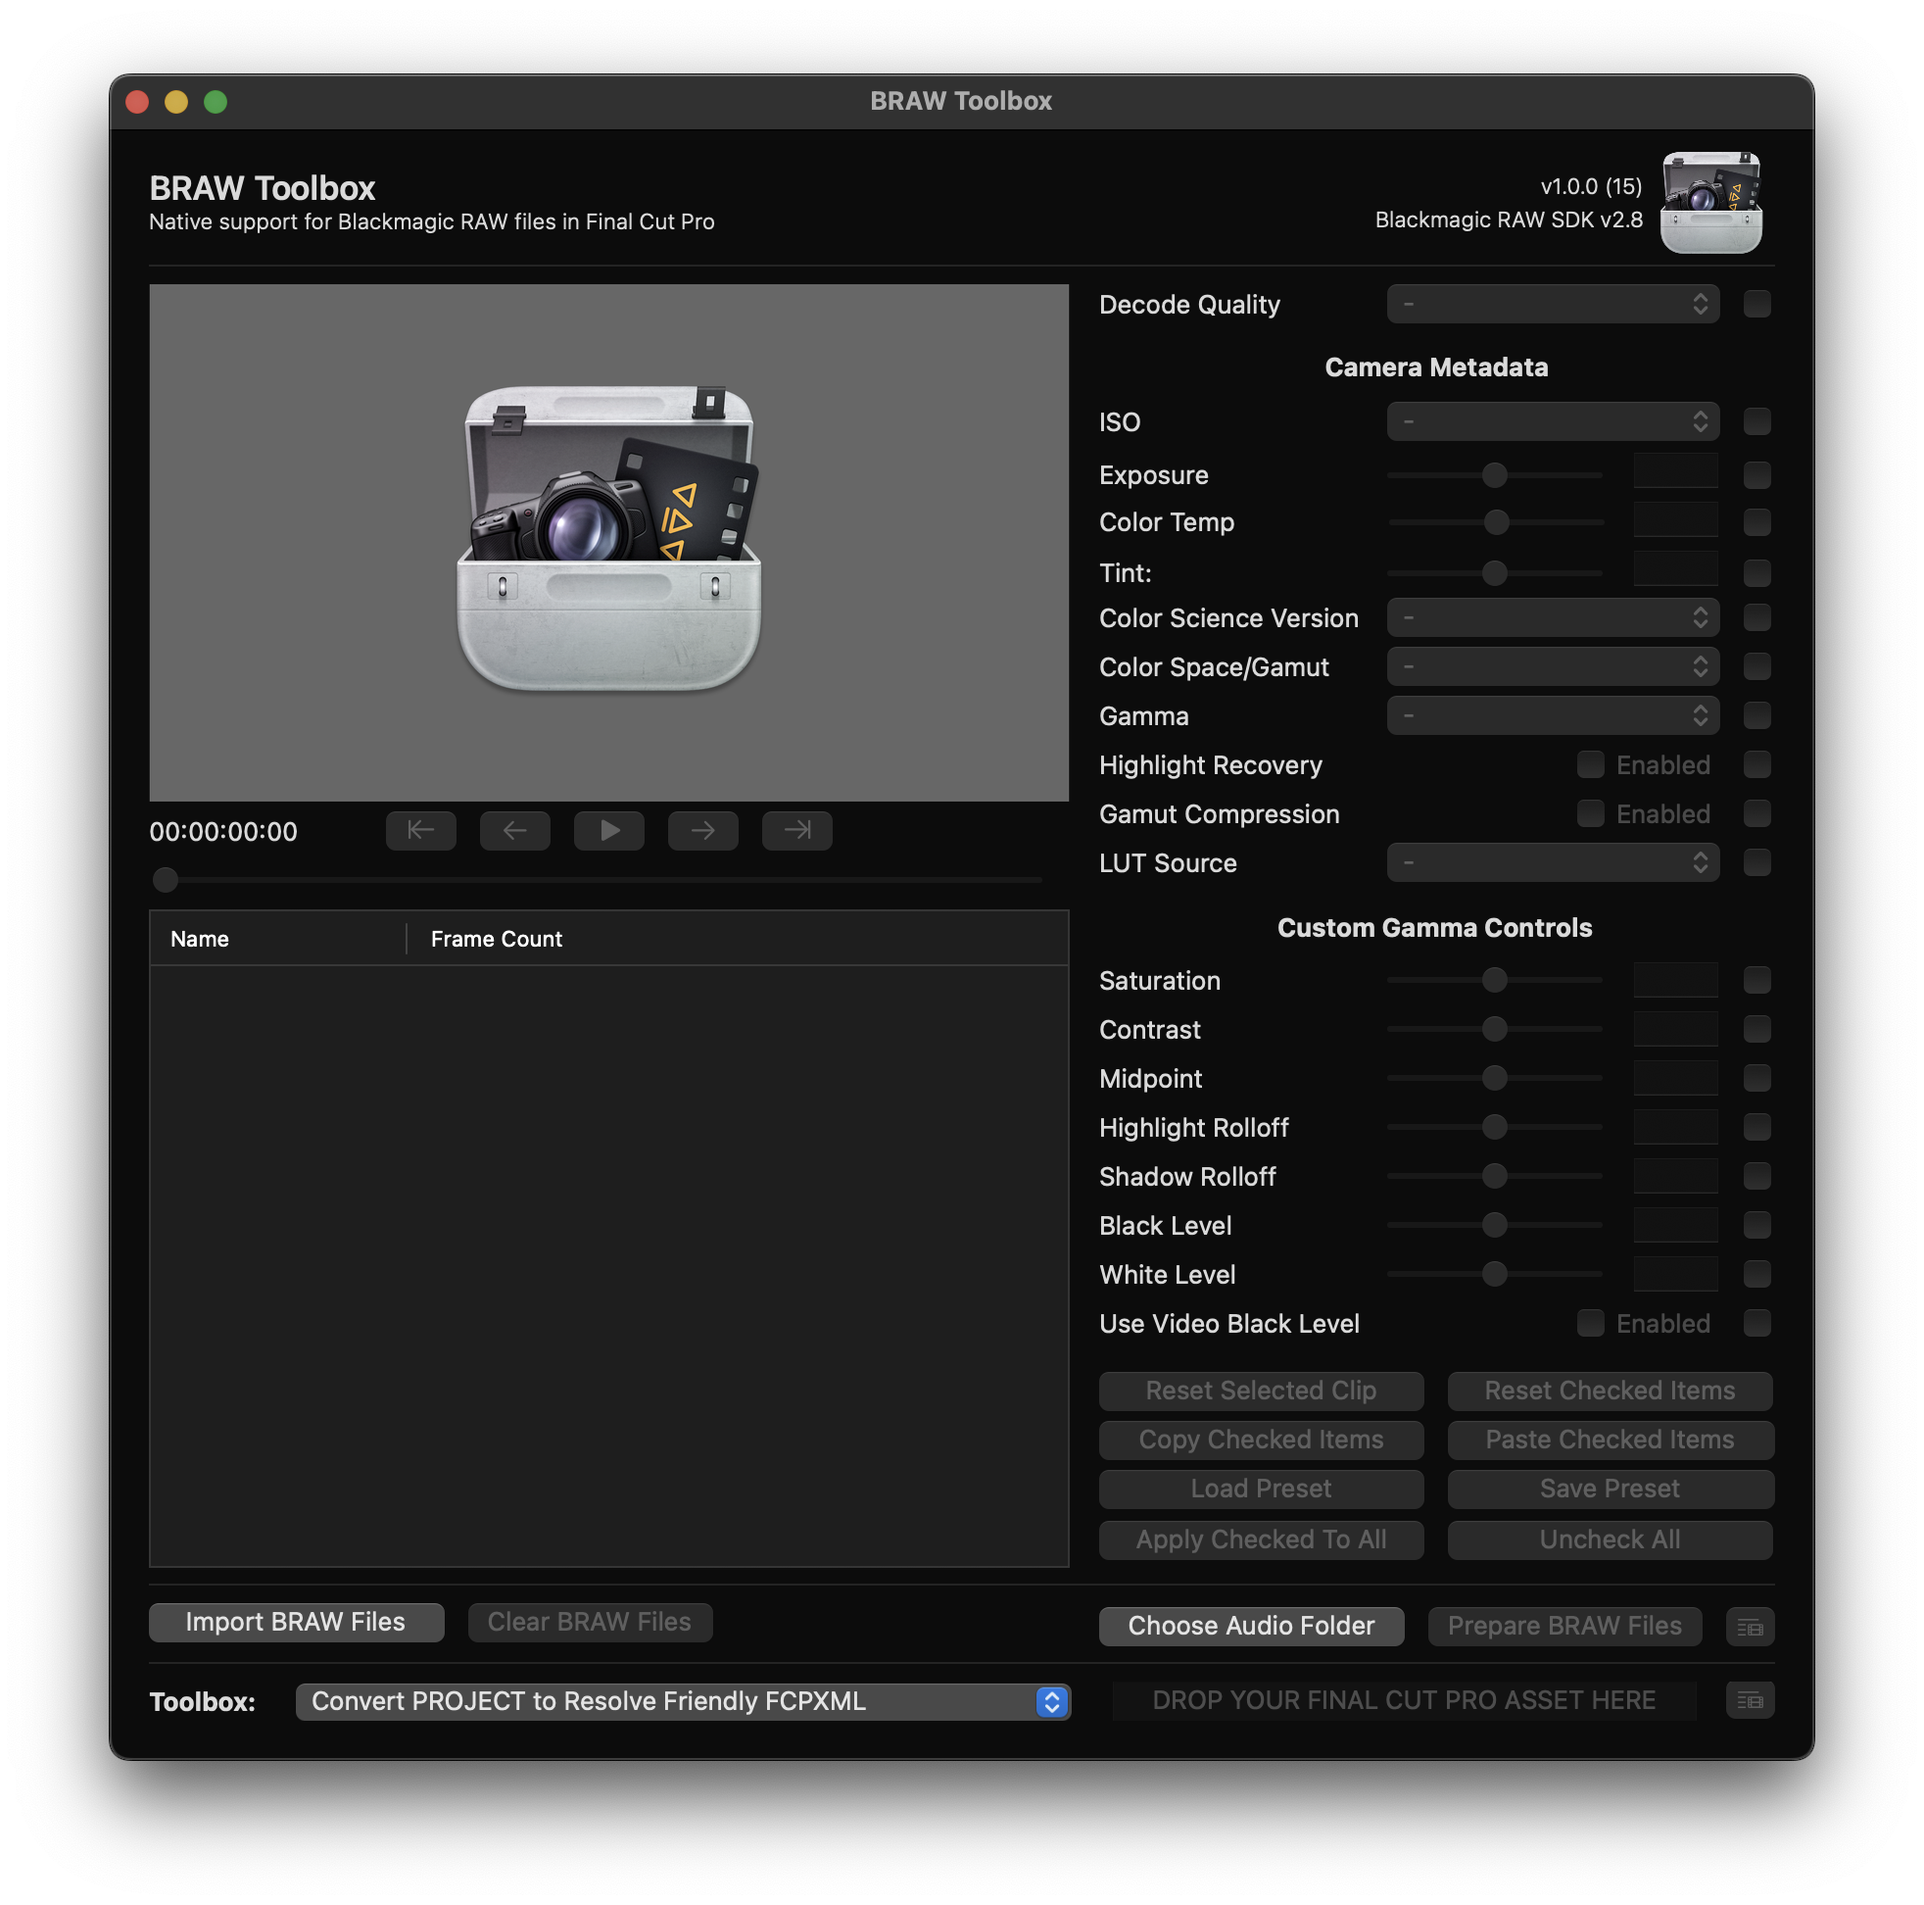
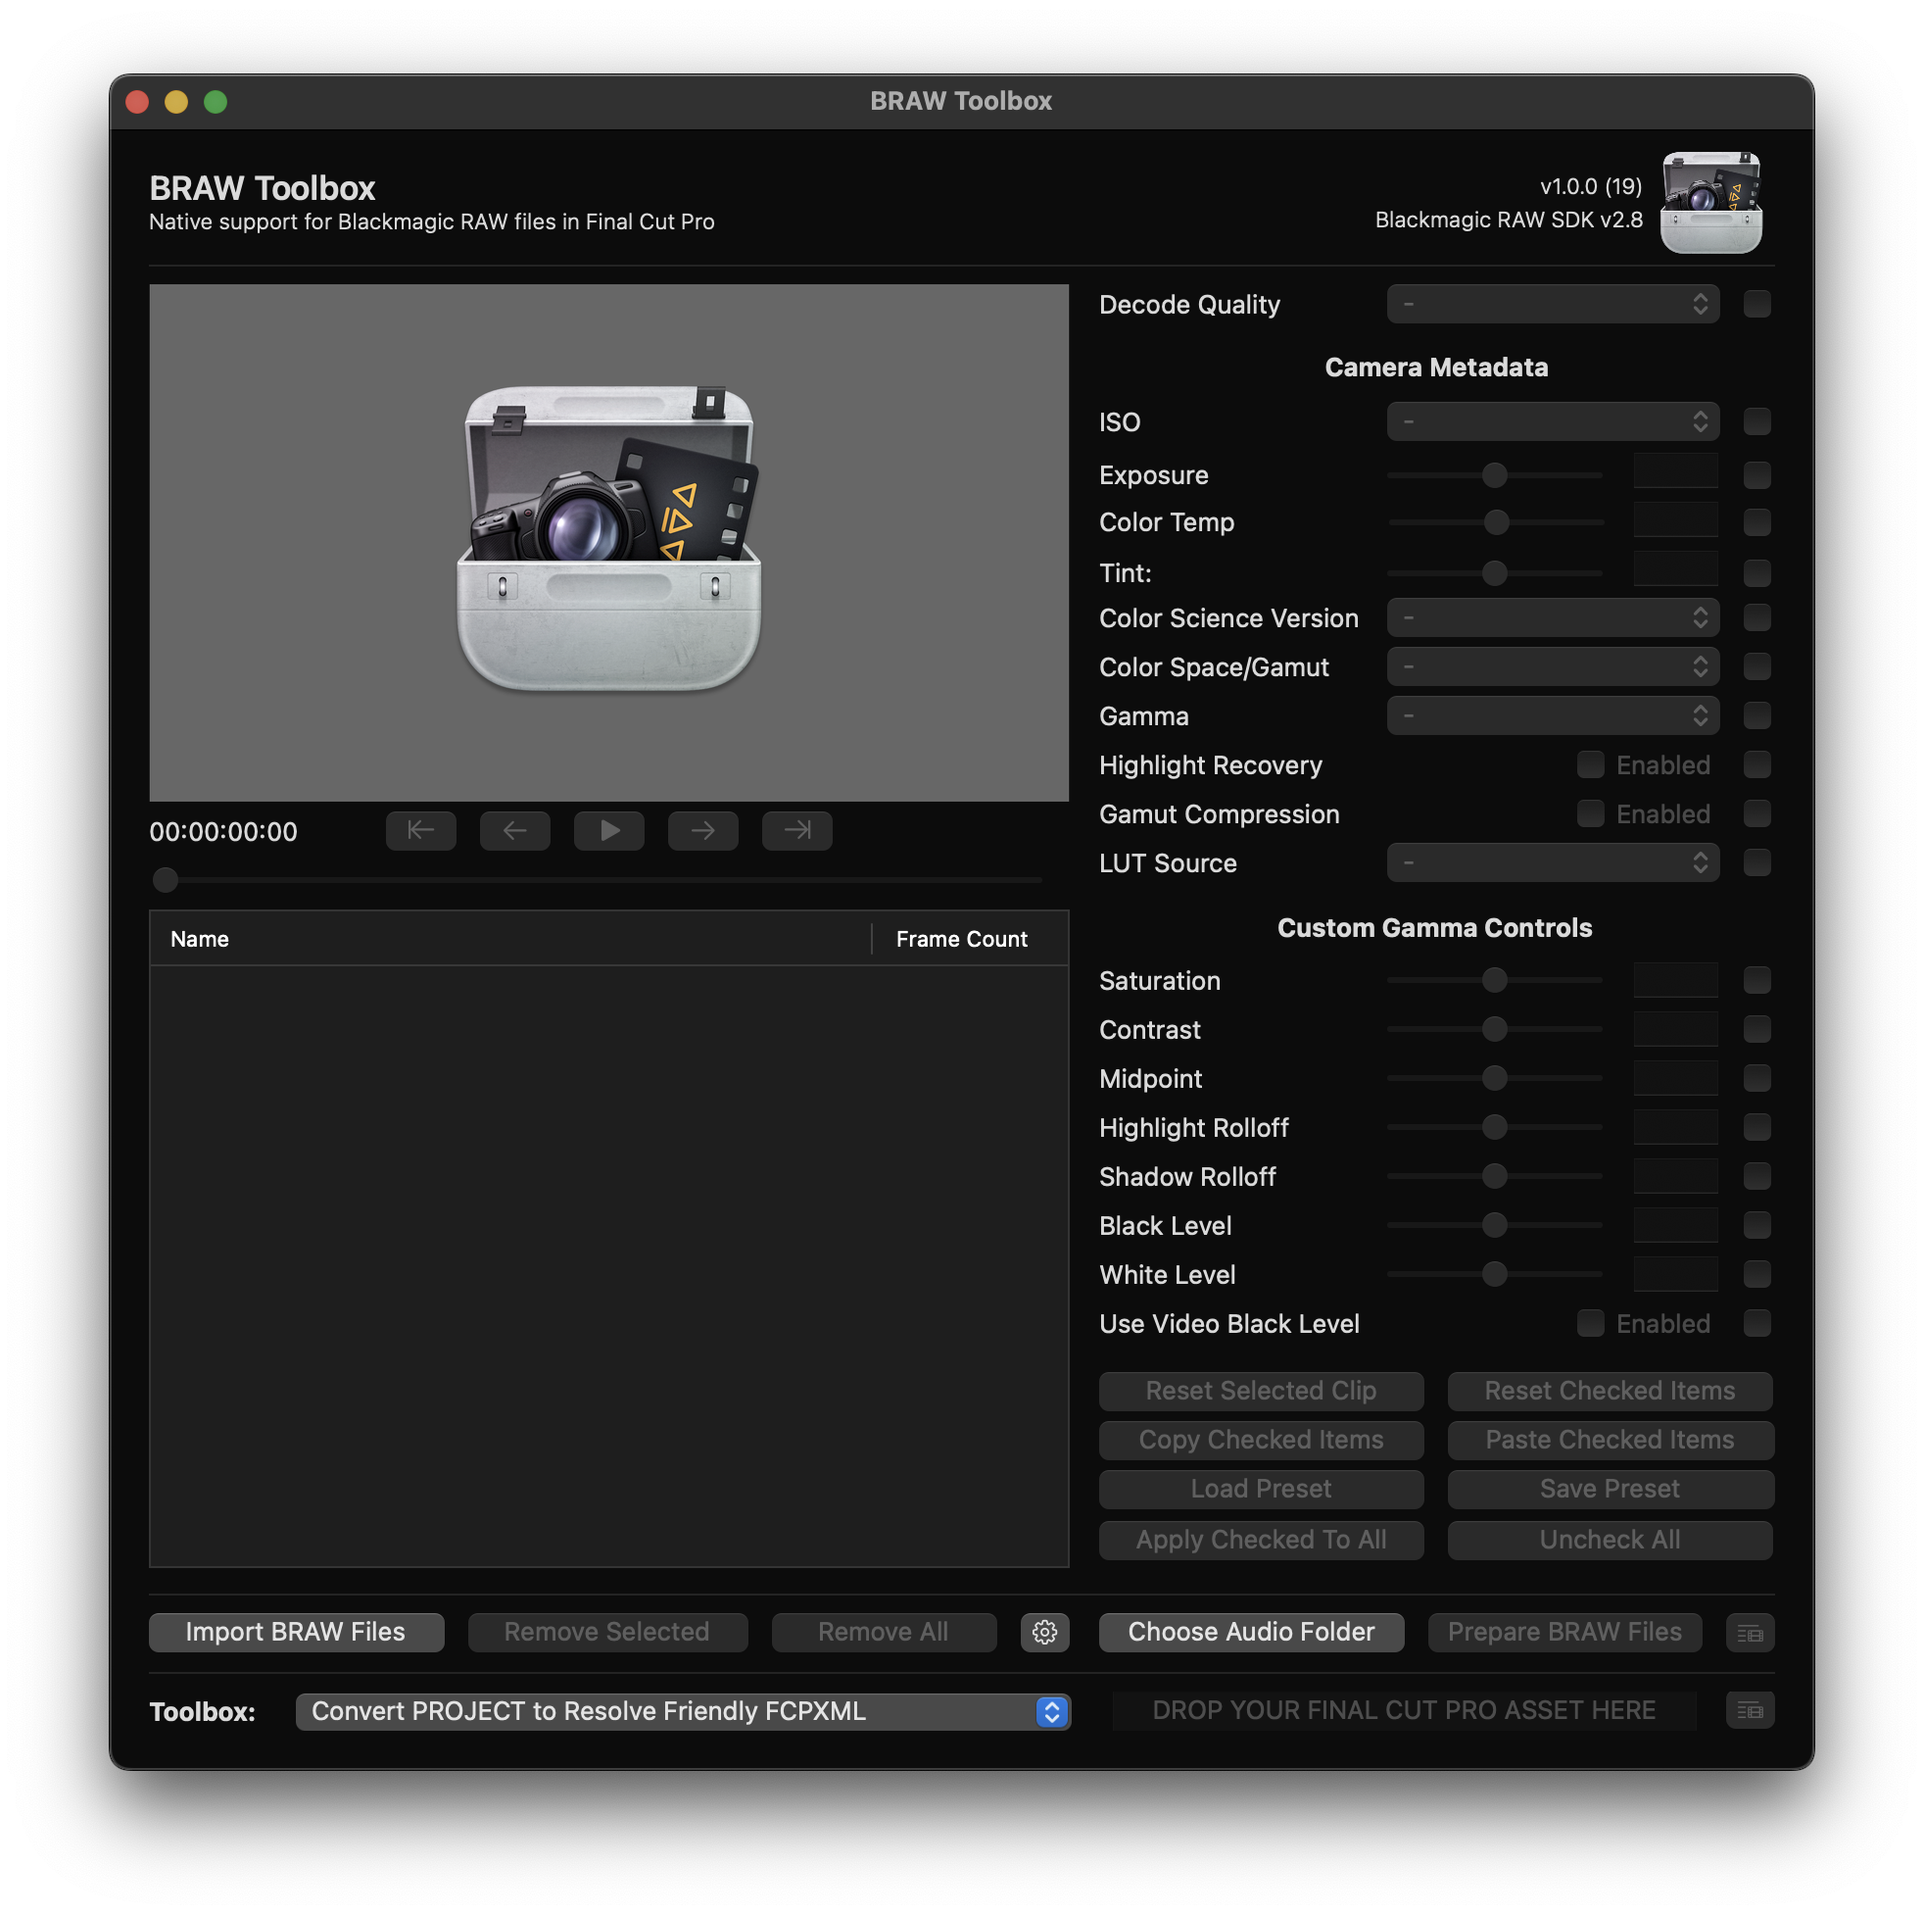
Updated images and wording in README

diff --git a/README.md b/README.md
@@ -10,15 +10,13 @@ This allows you to do your offline edit in Final Cut Pro, then send across to Da
 
 ## Download
 
-BRAW Toolbox is currently in **public beta**.
+BRAW Toolbox is currently in **public beta**. There are currently 120 testers from all over the world.
 
 You can download the latest beta via Apple's TestFlight [here](https://testflight.apple.com/join/dbWjWl8e).
 
 If all goes to plan, we intend to release on the Mac App Store in late January.
 
-TestFlight requires macOS Monterey or later.
-
-If you're running Big Sur, it MIGHT be possible to download on a Monterey machine, then copy across to your Big Sur machine, if they share the same Apple ID.
+TestFlight requires macOS Monterey or later. However, if you're running Big Sur, it MIGHT be possible to download on a Monterey machine, then copy across to your Big Sur machine, if they share the same Apple ID.
 
 ---
 
@@ -43,7 +41,7 @@ GitHub registration is free, and this GitHub repository is actively monitored by
 
 ## Incomplete Features
 
-The below features are not yet available in the latest beta, and will be added soon:
+The below features are not yet available in the latest beta, and will be added prior to release on the Mac App Store:
 
 - The **Relink Unliked BRAW Clips within an EVENT** Toolbox feature is not yet enabled
 - The **Convert BRAW clips to MOV's within an EVENT** Toolbox feature is not yet enabled
@@ -58,7 +56,7 @@ The below features are not yet available in the latest beta, and will be added s
 - There are no changes to the Motion Template or Metadata View in this beta.
 
 **Improvements:**
-- Added a "Settings" button (the gear icon), with the ability to **Create Multicam Clips** instead of Synchronised Clips. Thanks for suggesting [@TheDaveChap](https://github.com/TheDaveChap)!
+- Added a **Settings** button (the gear icon), with the ability to **Create Multicam Clips** instead of Synchronised Clips. Thanks for suggesting [@TheDaveChap](https://github.com/TheDaveChap)!
 - **Convert PROJECT to Resolve Friendly FCPXML** has been improved so that Audio Attributes and Rate Conform settings come across more accurately between Final Cut Pro and DaVinci Resolve. Thanks for reporting [@markspen](https://github.com/markspen)!
 - If the Color Space is set to **Rec.2020**, and the Gamma is set to **Rec.2100 ST2084 (PQ)** in the Workflow Extension, we'll use the **Rec. 2020 PQ** setting for this clip in Final Cut Pro. Thanks for suggesting [@JW144754](https://github.com/JW144754)!
 - If the Color Space is set to **Rec.2020**, and the Gamma is set to **Rec.2100 Hybrid Log Gamma** in the Workflow Extension, we'll use the **Rec. 2020 HLG** setting for this clip in Final Cut Pro. Thanks for suggesting [@JW144754](https://github.com/JW144754)!
@@ -93,7 +91,7 @@ The below features are not yet available in the latest beta, and will be added s
 - There are no changes to the Motion Template or Metadata View in this beta.
 
 **Bug Fixes:**
-- Fixed a weird bug which caused the "Preparing BRAW Files" to never close on Intel Mac's (but worked fine on Apple Silicon Mac's). Thanks for reporting [George Elias](https://twitter.com/gwphotographe)!
+- Fixed a weird bug which caused the **Preparing BRAW Files** to never close on Intel Mac's (but worked fine on Apple Silicon Mac's). Thanks for reporting [George Elias](https://twitter.com/gwphotographe)!
 - Increased the Workflow Extension height by a tiny amount so it looks better on Intel Mac's.
 
 ### 1.0.0 (15) - Public Beta 2 - 5th January 2023
@@ -104,18 +102,18 @@ The below features are not yet available in the latest beta, and will be added s
 
 **Improvements:**
 - The BRAW Toolbox Motion Template has been completely redesigned to be a lot faster and easier to use. We have removed all the override controls. It now only shows the parameters that you can control (i.e. if your camera doesn't allow manipulating the ISO, we no longer show this parameter).
-- We added a "Global Settings" button to the Motion Template in the Final Cut Pro Inspector, so that you can force a Decode Quality across all clips. This is useful if you have clips with different Decode Quality settings, but you want to export at the highest quality.
-- We now populate the "Ingest Date" (aka "Date Imported" in Final Cut Pro) metadata field. Thanks for suggesting [@tangierc](https://github.com/tangierc)!
+- We added a **Global Settings** button to the Motion Template in the Final Cut Pro Inspector, so that you can force a Decode Quality across all clips. This is useful if you have clips with different Decode Quality settings, but you want to export at the highest quality.
+- We now populate the **Ingest Date** (aka "Date Imported" in Final Cut Pro) metadata field. Thanks for suggesting [@tangierc](https://github.com/tangierc)!
 - The Workflow Extension has been redesigned. The checkboxes no longer act as "overrides", but instead allow you to select which parameters you want to copy, paste, etc.
 - The buttons at the bottom of the Workflow Extension Inspector (Copy, Paste, etc.) now all work.
 - All the parameters in the Workflow Extension should now flow into Final Cut Pro.
 - All the parameters in the Final Cut Pro Inspector should now work and update correctly. Thanks for reporting [@markspen](https://github.com/markspen)!
-- We now display an error message if you press "Show Parameters" with no BRAW file loaded.
+- We now display an error message if you press **Show Parameters** with no BRAW file loaded.
 - We no longer hide the Workflow Extension player slider when playing, and now update its value during playback. Thanks for suggesting @JW144754!
 - The Viewer in the Workflow Extension is now resizable. Thanks for suggesting [@JW144754](https://github.com/JW144754)!
 - The main application now only asks for permissions to your Movies folder and Application Support folder once.
 - All the individual open/save dialog boxes now remember their own last opened path.
-- The "Convert PROJECT to Resolve Friendly FCPXML" Toolbox now works.
+- The **Convert PROJECT to Resolve Friendly FCPXML** Toolbox now works.
 - We've added a loading screen when BRAW Toolbox is Preparing BRAW Files. Thanks for suggesting [@tangierc](https://github.com/tangierc)!
 
 **Changes:**
@@ -257,13 +255,19 @@ This will create a new FCPXML, where it converts the BRAW Toolbox clips into nor
 
 ## Frequently Asked Questions
 
+### I don't like Synchronised Clips. Can I import a Multicam clips instead?
+
+Yes, you can click the **Settings** button (the gear icon, next to "Remove All") to **Create Multicam Clips** instead.
+
+![Screenshot](Documentation/install-20.png)
+
 ### Why can't I adjust the Custom Gamma Controls?
 
 You can only adjust the Custom Gamma Controls if you select the **Blackmagic Design Custom** Gamma option.
 
 ### Can I stabilise clips using the Gyroscope Data within the BRAW file?
 
-Yes, you can combine BRAW Toolbox with [Gyroflow Toolbox](https://github.com/latenitefilms/GyroflowToolbox) - simply apply the Gyroflow Toolbox effect to the video layer inside your synchronised clip.
+Yes, you can combine BRAW Toolbox with [Gyroflow Toolbox](https://github.com/latenitefilms/GyroflowToolbox) - simply apply the Gyroflow Toolbox effect to the video layer inside your Synchronised or Multicam clip.
 
 ### How much will BRAW Toolbox cost?
 
